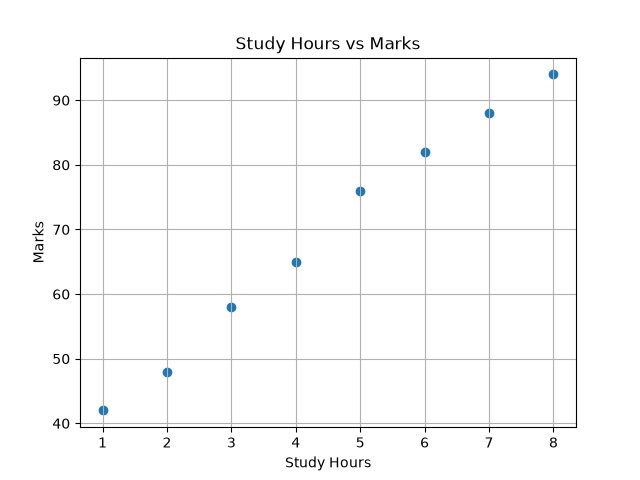
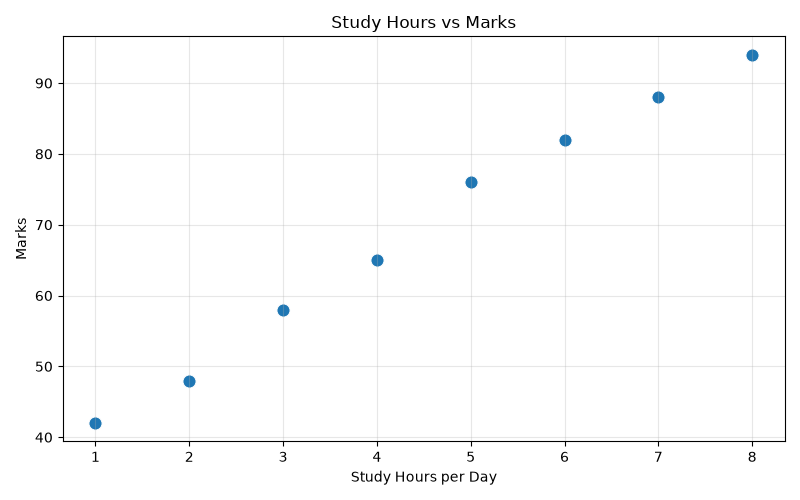
Add attendance and correlation analysis

diff --git a/analysis.py b/analysis.py
@@ -1,27 +1,66 @@
 
 import pandas as pd
 import matplotlib.pyplot as plt
+import seaborn as sns
+from pathlib import Path
 
-# Load student data
-df = pd.read_csv("data.csv")
+# Load the dataset
+folder = Path(__file__).parent
+df = pd.read_csv(folder / "data.csv")
 
 # Display dataset
-print("Student Dataset:")
-print(df)
+print("STUDENT PERFORMANCE ANALYSIS")
+print(df.to_string(index=False))
 
-# Calculate average marks
-average = df["marks"].mean()
-print("\nAverage Marks:", round(average, 2))
+# Basic statistics
+print("\nAverage marks:", round(df["marks"].mean(), 2))
+print("Highest marks:", df["marks"].max())
+print("Lowest marks:", df["marks"].min())
+print("Average attendance:", round(df["attendance"].mean(), 2), "%")
 
-# Find highest and lowest marks
-print("Highest Marks:", df["marks"].max())
-print("Lowest Marks:", df["marks"].min())
+output = folder
 
-# Create a chart
-plt.scatter(df["study_hours"], df["marks"])
-plt.xlabel("Study Hours")
-plt.ylabel("Marks")
+# Chart 1: Study hours vs marks
+plt.figure(figsize=(8, 5))
+sns.scatterplot(data=df, x="study_hours", y="marks", s=90)
 plt.title("Study Hours vs Marks")
-plt.grid()
-plt.savefig("study_hours_vs_marks.png")
-plt.show()
+plt.xlabel("Study Hours per Day")
+plt.ylabel("Marks")
+plt.grid(alpha=0.3)
+plt.tight_layout()
+plt.savefig(output / "study_hours_vs_marks.png")
+plt.close()
+
+# Chart 2: Attendance vs marks
+plt.figure(figsize=(8, 5))
+sns.regplot(data=df, x="attendance", y="marks")
+plt.title("Attendance vs Marks")
+plt.xlabel("Attendance (%)")
+plt.ylabel("Marks")
+plt.tight_layout()
+plt.savefig(output / "attendance_vs_marks.png")
+plt.close()
+
+# Chart 3: Correlation heatmap
+columns = ["study_hours", "attendance", "marks"]
+correlation = df[columns].corr()
+
+print("\nCorrelation Matrix:")
+print(correlation.round(2))
+
+plt.figure(figsize=(7, 5))
+sns.heatmap(
+    correlation,
+    annot=True,
+    cmap="coolwarm",
+    vmin=-1,
+    vmax=1,
+    fmt=".2f"
+)
+plt.title("Student Performance Correlation")
+plt.tight_layout()
+plt.savefig(output / "correlation_heatmap.png")
+plt.close()
+
+print("\nAnalysis completed successfully!")
+print("Charts saved inside the outputs folder.")
